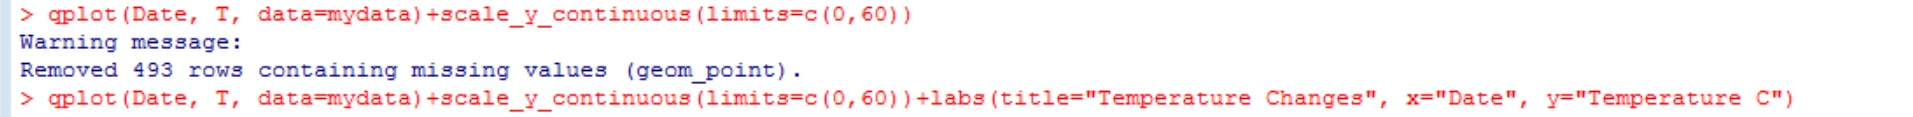
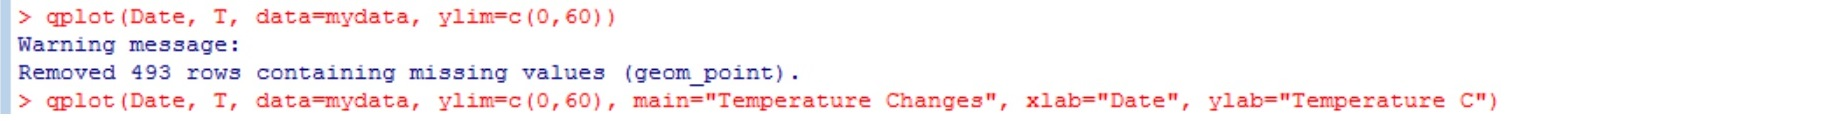
improve Tutorial

Changed region(s): [[0.0, 0.0, 0.9349, 0.9487], [0.0, 0.9487, 0.0312, 1.0]]

diff --git a/example1.html b/example1.html
@@ -58,8 +58,8 @@
       <p>And we have our first plot created with ggplot2! Now let's see if we can improve it.</p>
       <br>
 
-      <p><b>Step 4)</b> We can change the y axis limits by adding <i>scale_y_continuous(limits=c(min, max))</i> function</p>
-      <p><b>Step 5)</b> Finally, we can edit the title, x axis label and y axis label by adding <i>labs(title=, x=, y=)</i></p>
+      <p><b>Step 4)</b> Instead of using R's <i>scale_y_continuous(limits=c(min, max))</i> function, we can edit the y limits by using the ylim= argument</p>
+      <p><b>Step 5)</b> We can edit the title, x axis label and y axis label by adding the main=, xlab= and ylab= arguments</i></p>
       <br>
 
       <p><img class="code" src="2.jpg" alt="2"></p>
@@ -68,6 +68,13 @@
       <p><img class="graph" src="temperature2.jpeg" alt="temperature2"></p>
       <br>	
        
+      <p><b>Step 6)</b> Finally, we can associate the levels of variable with color. Here we choose to use the NO2.GT. variable (hourly averaged NO2 concentraion in microg/m^3)</p>
+ 
+      <p><img class="code" src="extra.jpg" alt="2"></p>
+      <br>
+
+      <p><img class="graph" src="temperature3.jpeg" alt="temperature2"></p>
+      <br>	
 
     </div>
   </div>
